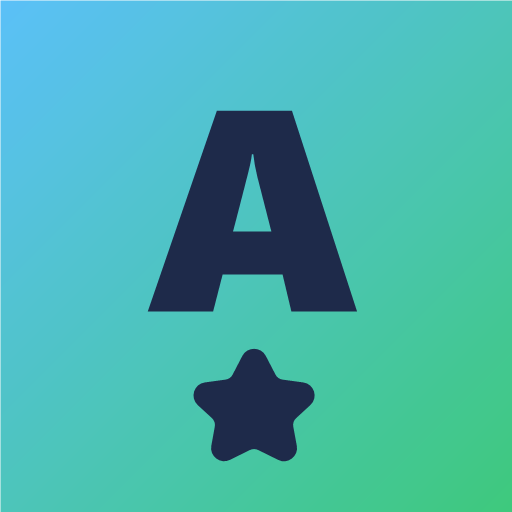
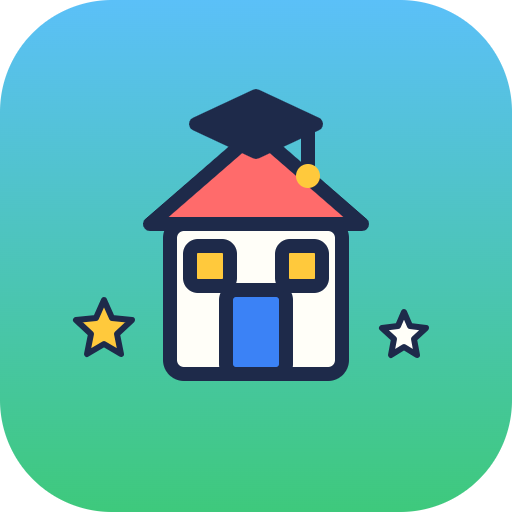
v9.26: clave de Gemini compartida con la familia (el padre la pone una vez y todos los hijos invitados la heredan: se escribe en el perfil de cada hijo, el hijo la lee al entrar, los nuevos hijos la heredan al invitarlos; sigue sin perderse al sincronizar) + icono PNG regenerado del SVG nuevo (casit

diff --git a/index.html b/index.html
@@ -10,12 +10,12 @@
 <script async src="https://www.googletagmanager.com/gtag/js?id=G-CL93GY83YP"></script>
 <script>window.dataLayer=window.dataLayer||[];function gtag(){dataLayer.push(arguments);}gtag('js',new Date());gtag('config','G-CL93GY83YP');</script>
 <link rel="manifest" href="manifest.webmanifest">
-<link rel="icon" type="image/svg+xml" href="icons/icon.svg?v=9.25.0">
+<link rel="icon" type="image/svg+xml" href="icons/icon.svg?v=9.26.0">
 <link rel="icon" href="icons/icon-192.png">
 <link rel="apple-touch-icon" href="icons/icon-192.png">
 <link rel="preconnect" href="https://fonts.googleapis.com">
 <link href="https://fonts.googleapis.com/css2?family=Fredoka:wght@500;600;700&family=Space+Grotesk:wght@500;600;700&family=Nunito:wght@600;700;800;900&display=swap" rel="stylesheet">
-<link rel="stylesheet" href="css/styles.css?v=9.25.0">
+<link rel="stylesheet" href="css/styles.css?v=9.26.0">
 <script src="https://www.gstatic.com/firebasejs/10.12.2/firebase-app-compat.js"></script>
 <script src="https://www.gstatic.com/firebasejs/10.12.2/firebase-auth-compat.js"></script>
 <script src="https://www.gstatic.com/firebasejs/10.12.2/firebase-firestore-compat.js"></script>
@@ -23,25 +23,25 @@
 </head>
 <body>
 <div id="app"></div>
-<script src="js/core.js?v=9.25.0"></script>
-<script src="js/content.js?v=9.25.0"></script>
-<script src="js/content-extra.js?v=9.25.0"></script>
-<script src="js/content-exam.js?v=9.25.0"></script>
-<script src="js/kid.js?v=9.25.0"></script>
-<script src="js/teen.js?v=9.25.0"></script>
-<script src="js/avatar-shop.js?v=9.25.0"></script>
-<script src="js/games2.js?v=9.25.0"></script>
-<script src="js/games3.js?v=9.25.0"></script>
-<script src="js/pet.js?v=9.25.0"></script>
-<script src="js/tutor.js?v=9.25.0"></script>
-<script src="js/english-academy.js?v=9.25.0"></script>
-<script src="js/english-stories.js?v=9.25.0"></script>
-<script src="js/english-levels.js?v=9.25.0"></script>
-<script src="js/videos.js?v=9.25.0"></script>
-<script src="js/parent.js?v=9.25.0"></script>
-<script src="js/invites.js?v=9.25.0"></script>
-<script src="js/firebase-sync.js?v=9.25.0"></script>
-<script src="js/gate.js?v=9.25.0"></script>
-<script src="js/app.js?v=9.25.0"></script>
+<script src="js/core.js?v=9.26.0"></script>
+<script src="js/content.js?v=9.26.0"></script>
+<script src="js/content-extra.js?v=9.26.0"></script>
+<script src="js/content-exam.js?v=9.26.0"></script>
+<script src="js/kid.js?v=9.26.0"></script>
+<script src="js/teen.js?v=9.26.0"></script>
+<script src="js/avatar-shop.js?v=9.26.0"></script>
+<script src="js/games2.js?v=9.26.0"></script>
+<script src="js/games3.js?v=9.26.0"></script>
+<script src="js/pet.js?v=9.26.0"></script>
+<script src="js/tutor.js?v=9.26.0"></script>
+<script src="js/english-academy.js?v=9.26.0"></script>
+<script src="js/english-stories.js?v=9.26.0"></script>
+<script src="js/english-levels.js?v=9.26.0"></script>
+<script src="js/videos.js?v=9.26.0"></script>
+<script src="js/parent.js?v=9.26.0"></script>
+<script src="js/invites.js?v=9.26.0"></script>
+<script src="js/firebase-sync.js?v=9.26.0"></script>
+<script src="js/gate.js?v=9.26.0"></script>
+<script src="js/app.js?v=9.26.0"></script>
 </body>
 </html>

diff --git a/js/kid.js b/js/kid.js
@@ -191,7 +191,8 @@ async function aiStoryKid(){
  setTheme("kid");
  render(topbar("screenStoryPick()")+'<div class="card center" style="padding:40px"><div class="spin" style="font-size:3rem">⏳</div><h2 style="margin-top:10px">Creando un cuento nuevo…</h2></div>');
  try{
-  const temas=["la amistad","el valor de la honestidad","cuidar la naturaleza","el trabajo en equipo","superar el miedo","la importancia de compartir","la perseverancia","ser amable con los demás","la curiosidad por aprender","cuidar a los animales"];
+  const temas=["la amistad","el valor de la honestidad","cuidar la naturaleza","el trabajo en equipo","superar el miedo","la importancia de compartir","la perseverancia","ser amable con los demás","la curiosidad por aprender","cuidar a los animales",
+   "un misterio que el protagonista resuelve buscando pistas","un descubrimiento sorprendente (un lugar o un tesoro escondido)","una aventura de exploración y valentía","resolver un enigma usando la lógica","una búsqueda para encontrar algo perdido"];
   const tema=temas[Math.floor(Math.random()*temas.length)];
   if(!S.aiStoriesSeen)S.aiStoriesSeen=[];
   const evitar=S.aiStoriesSeen.slice(-12);
@@ -594,7 +595,28 @@ const CRITTERS=[
  {id:"escar",name:"Escar",forms:["🐛","🪲","🌟🪲"],r:0},{id:"vulcan",name:"Vulcán",forms:["🪨","🌋","🔥🌋"],r:2},
  {id:"nimbo",name:"Nimbo",forms:["☁️","⛈️","🌪️"],r:1},{id:"marina",name:"Marina",forms:["🐚","🧜","🧜♀️"],r:2},
  {id:"zumzum",name:"Zumzum",forms:["🌸","🐦","🦚"],r:1},{id:"pincho",name:"Pincho",forms:["🌵","🏜️","🌸🌵"],r:0},
- {id:"espectro",name:"Espectro",forms:["👻","🕯️","🔮"],r:1},{id:"grifo2",name:"Grifo",forms:["🥚","🦅","🦁🦅"],r:2}];
+ {id:"espectro",name:"Espectro",forms:["👻","🕯️","🔮"],r:1},{id:"grifo2",name:"Grifo",forms:["🥚","🦅","🦁🦅"],r:2},
+ // ----- tanda 4 (hasta 100) -----
+ {id:"delfin",name:"Splash",forms:["🐟","🐬","🌊🐬"],r:0},{id:"loro2",name:"Kiko",forms:["🥚","🐤","🦜"],r:0},
+ {id:"mariposa",name:"Aleta",forms:["🐛","🐝","🦋"],r:0},{id:"camaleon",name:"Cromo",forms:["🥚","🦎","🌈🦎"],r:1},
+ {id:"ardilla2",name:"Nuez",forms:["🌰","🐿️","🌳🐿️"],r:0},{id:"erizo",name:"Pinchitos",forms:["🌰","🦔","🌟🦔"],r:0},
+ {id:"morsa",name:"Bigotes",forms:["🐟","🦭","🐋"],r:1},{id:"caballito",name:"Marito",forms:["🌊","🐠","🐡"],r:0},
+ {id:"lince",name:"Sombra",forms:["🐱","🐈","🐆"],r:1},{id:"alce",name:"Ramón",forms:["🦌","🌲🦌","❄️🦌"],r:1},
+ {id:"tucan2",name:"Pico",forms:["🥚","🐦","🦤"],r:0},{id:"murcielago",name:"Nocturno",forms:["🐭","🦇","🌙🦇"],r:1},
+ {id:"pulpo2",name:"Tinta",forms:["🐚","🐙","🌊🐙"],r:1},{id:"foca",name:"Copo",forms:["🐟","🦭","❄️🦭"],r:0},
+ {id:"jirafa",name:"Altura",forms:["🌿","🦒","🌳🦒"],r:0},{id:"rino",name:"Tanque",forms:["🦏","⛰️🦏","🌋🦏"],r:1},
+ {id:"cocodrilo",name:"Mandíbula",forms:["🥚","🐊","🐉🐊"],r:1},{id:"flamenco",name:"Rosa",forms:["🥚","🦩","🌅🦩"],r:0},
+ {id:"mapache2",name:"Bandido",forms:["🌙","🦝","🌟🦝"],r:0},{id:"koala2",name:"Eucalipto",forms:["🌿","🐨","🌳🐨"],r:0},
+ {id:"orca",name:"Capitán",forms:["🐟","🐋","🌊🐋"],r:2},{id:"aguila2",name:"Cielo",forms:["🥚","🦅","⚡🦅"],r:1},
+ {id:"toro",name:"Embiste",forms:["🐄","🐂","🔥🐂"],r:1},{id:"oveja",name:"Nubosa",forms:["☁️","🐑","🌈🐑"],r:0},
+ {id:"caballo2",name:"Galope",forms:["🐴","🏇","🦄"],r:1},{id:"gallo",name:"Alba",forms:["🥚","🐔","🌅🐓"],r:0},
+ {id:"pato",name:"Chapoteo",forms:["🥚","🐤","🦆"],r:0},{id:"cangrejo2",name:"Tenaza",forms:["🦐","🦀","🌊🦀"],r:0},
+ {id:"escorpion",name:"Aguijón",forms:["🦂","🌵🦂","🔥🦂"],r:1},{id:"libelula",name:"Brisa",forms:["🐛","🦗","🌈🦗"],r:0},
+ {id:"panda2",name:"Bambino",forms:["🎋","🐼","🌸🐼"],r:1},{id:"zorro2",name:"Llama",forms:["🦊","🔥🦊","🌟🦊"],r:1},
+ {id:"lobo3",name:"Aullido",forms:["🐺","🌕🐺","⚡🐺"],r:1},{id:"tigre2",name:"Rayo",forms:["🐱","🐯","🔥🐯"],r:2},
+ {id:"leon2",name:"Melena",forms:["🐱","🦁","👑🦁"],r:2},{id:"dragon3",name:"Inferno",forms:["🥚","🐲","🌋🐉"],r:2},
+ {id:"unicornio2",name:"Brillo",forms:["🐴","🦄","🌈🦄"],r:2},{id:"fenix2",name:"Renacer",forms:["🔥","🐤","🔥🦅"],r:2},
+ {id:"pegaso",name:"Viento",forms:["🐴","🕊️🐴","☁️🐴"],r:2},{id:"hidra",name:"Hidra",forms:["🐍","🐲","🌊🐉"],r:2}];
 function critters(){const p=prof();if(!p.critters)p.critters=[];return p.critters;}
 function critterCount(id){return critters().filter(x=>x===id).length;}
 function uniqueCritters(){return new Set(critters()).size;}

diff --git a/js/firebase-sync.js b/js/firebase-sync.js
@@ -35,11 +35,20 @@ function afPush(){var u=afUser();if(!u)return;
    var pid=S.childProfile||u.uid;var prof=S.profiles&&S.profiles[pid];
    if(prof){prof.updatedAt=Date.now();afDB.collection("families").doc(afMember.familyId).collection("profiles").doc(u.uid).set(JSON.parse(JSON.stringify(prof))).catch(function(){});}
    return;}
-  // merge: no borra memberIndex/memberAuth (datos de los hijos invitados) que no están en S
-  var data=JSON.parse(JSON.stringify(S));
-  delete data.geminiKey; // la clave de Gemini es PRIVADA y LOCAL: nunca se sube a la nube
-  afDB.collection("families").doc(u.uid).set(data,{merge:true}).catch(function(){});
+  // merge: no borra memberIndex/memberAuth (datos de los hijos invitados) que no están en S.
+  // La clave de Gemini SÍ se guarda en el doc PRIVADO de la familia (solo la familia lo lee por las reglas),
+  // para que el padre la tenga en sus dispositivos. A los hijos invitados se les comparte aparte (afShareKeyWithChildren).
+  afDB.collection("families").doc(u.uid).set(JSON.parse(JSON.stringify(S)),{merge:true}).catch(function(){});
  }catch(e){}}
+/* comparte la clave de Gemini del padre con TODOS los hijos invitados (la escribe en el perfil de cada uno) */
+function afShareKeyWithChildren(key){
+ var u=afUser();if(!u||!afReady||afMember)return; // solo el dueño de la familia
+ afDB.collection("families").doc(u.uid).collection("profiles").get().then(function(qs){
+  qs.forEach(function(d){
+   afDB.collection("families").doc(u.uid).collection("profiles").doc(d.id).set({geminiKey:key||""},{merge:true}).catch(function(){});
+  });
+ }).catch(function(){});}
+window.afShareKeyWithChildren=afShareKeyWithChildren;
 function afPull(done){var u=afUser();if(!u){if(done)done();return;}
  afDB.collection("families").doc(u.uid).get().then(function(snap){
   if(snap.exists){var cloud=snap.data();var lt=S.updatedAt||0,ct=cloud.updatedAt||0;
@@ -81,6 +90,7 @@ function afInviteChild(email,name,age,password,cb){
   var cuid=cred.user.uid;
   var type=(parseInt(age,10)||7)>=11?"teen":"kid";
   var prof=afNewMemberProfile(name,age,type);
+  prof.geminiKey=S.geminiKey||""; // el hijo nuevo hereda la clave de Gemini del padre (contenido con IA)
   var fid=parent.uid;
   var meta={};meta[cuid]={name:name,email:email,age:(parseInt(age,10)||null),type:type,since:Date.now()};
   var authMap={};authMap[cuid]={email:email,pass:pass}; // privado del padre: permite borrar la cuenta luego
@@ -134,6 +144,7 @@ function afLoadChild(uid,fid){
   var prof=snap.exists?snap.data():afNewMemberProfile("Estudiante",7,"kid");
   var base=JSON.parse(JSON.stringify(DEFAULT_STATE));
   base.profiles={};base.profiles[uid]=prof;base.role="child";base.childProfile=uid;base.hasAccount=true;base.updatedAt=Date.now();
+  base.geminiKey=prof.geminiKey||""; // hereda la clave de Gemini que el padre compartió → contenido con IA para el hijo
   S=base;if(typeof normalizeProfiles==="function")normalizeProfiles();
   localStorage.setItem("academiaFam2",JSON.stringify(S));
   current.profile=uid;if(typeof touchDay==="function")touchDay();

diff --git a/js/parent.js b/js/parent.js
@@ -225,7 +225,10 @@ async function testGeminiKey(){
 function saveSettings(){
  S.geminiKey=document.getElementById("gkey").value.trim();
  const np=document.getElementById("newpin").value.trim();if(np)S.pin=np;
- save();document.getElementById("fb").innerHTML=' <b style="color:var(--par-acc)">✓ Guardado</b>';}
+ save();
+ // comparte la clave con los hijos invitados para que ellos también tengan contenido con IA
+ if(typeof afShareKeyWithChildren==="function")afShareKeyWithChildren(S.geminiKey);
+ document.getElementById("fb").innerHTML=' <b style="color:var(--par-acc)">✓ Guardado'+(S.geminiKey?' · clave compartida con tus hijos 👨👩👧':'')+'</b>';}
 function exportData(){
  const blob=new Blob([JSON.stringify(S,null,2)],{type:"application/json"});
  const a=document.createElement("a");a.href=URL.createObjectURL(blob);a.download="academia-respaldo-"+todayStr()+".json";a.click();}

diff --git a/sw.js b/sw.js
@@ -1,5 +1,5 @@
 /* Service worker: la app funciona sin internet y se actualiza sola al abrir con conexión. */
-const VERSION = "af-v9.25.0";
+const VERSION = "af-v9.26.0";
 const CORE = [
   ".",
   "index.html",